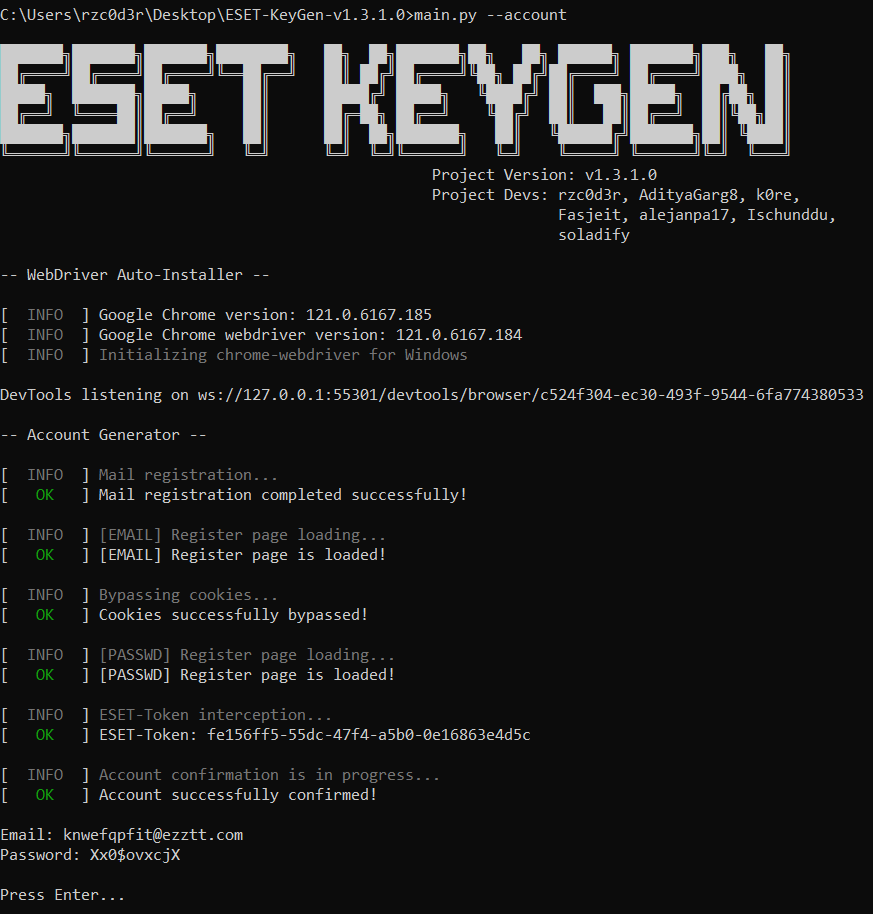
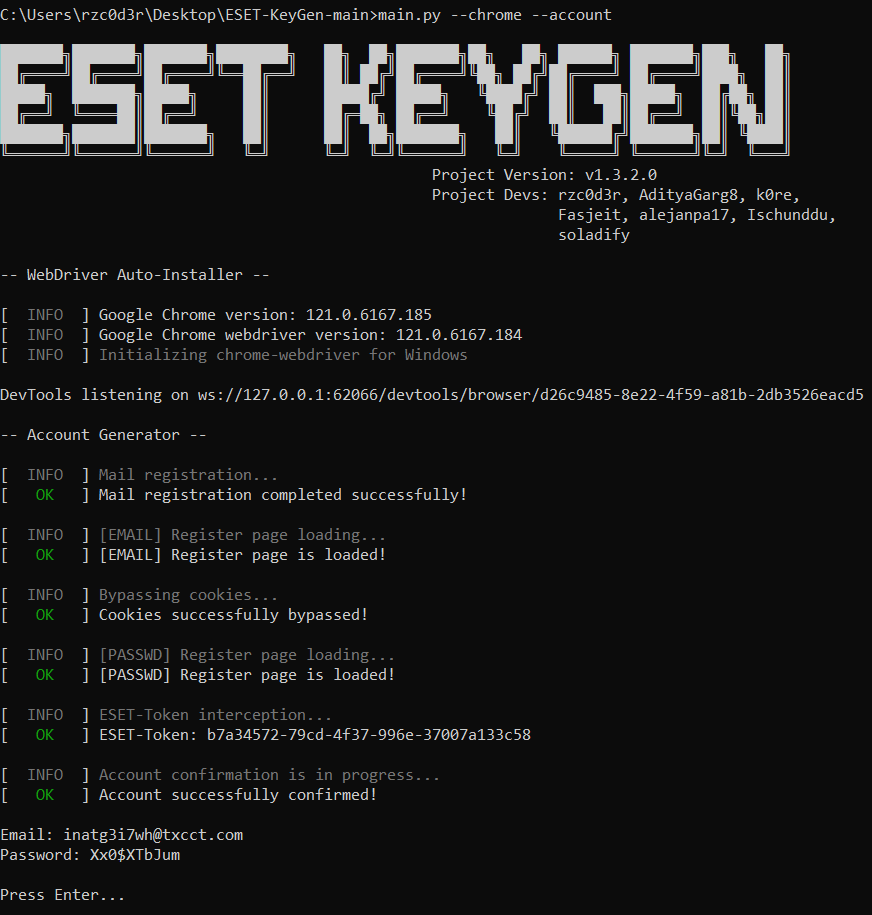
Update to v1.3.2.0
1. The project has now become a fully console offering
2. The system of command line arguments processing has been redesigned: added descriptions for each arguments, as well as required arguments without which it is impossible to start the project.
3. Updated screenshots and all instructions to the current version
4. Correction of minor inaccuracies in README.md
5. Added project preview in README.md

Thanks for the feedback, everyone!

diff --git a/main.py b/main.py
@@ -5,7 +5,7 @@ LOGO = """
 ██╔══╝  ╚════██║██╔══╝     ██║      ██╔═██╗ ██╔══╝    ╚██╔╝  ██║   ██║██╔══╝  ██║╚██╗██║   
 ███████╗███████║███████╗   ██║      ██║  ██╗███████╗   ██║   ╚██████╔╝███████╗██║ ╚████║   
 ╚══════╝╚══════╝╚══════╝   ╚═╝      ╚═╝  ╚═╝╚══════╝   ╚═╝    ╚═════╝ ╚══════╝╚═╝  ╚═══╝                                                                      
-                                                Project Version: v1.3.1.3
+                                                Project Version: v1.3.2.0
                                                 Project Devs: rzc0d3r, AdityaGarg8, k0re,
                                                               Fasjeit, alejanpa17, Ischunddu,
                                                               soladify
@@ -93,23 +93,32 @@ def webdriver_installer_menu(edge=False): # auto updating or installing google c
     return webdriver_path
 
 if __name__ == '__main__':
-    logger.console_log(LOGO)
+    print(LOGO)
     args_parser = argparse.ArgumentParser()
-    args_parser.add_argument('--account', action='store_true')
-    args_parser.add_argument('--force', action='store_true')
-    args_parser.add_argument('--cli', action='store_true')
-    args_parser.add_argument('--firefox', action='store_true')
-    args_parser.add_argument('--edge', action='store_true')
-    args_parser.add_argument('--no-headless', action='store_true')
-    args_parser.add_argument('--skip-webdriver-menu', action='store_true')
-    args_parser.add_argument('--only-update', action='store_true')
-    args_parser.add_argument('--custom-browser-location', type=str, default='')
+    # Required
+    ## Browsers
+    args_browsers = args_parser.add_mutually_exclusive_group(required=True)
+    args_browsers.add_argument('--chrome', action='store_true', help='Launching the project via Google Chrome browser')
+    args_browsers.add_argument('--firefox', action='store_true', help='Launching the project via Mozilla Firefox browser')
+    args_browsers.add_argument('--edge', action='store_true', help='Launching the project via Microsoft Edge browser')
+    ## Modes of operation
+    args_modes = args_parser.add_mutually_exclusive_group(required=True)
+    args_modes.add_argument('--key', action='store_true', help='Generating an antivirus license key')
+    args_modes.add_argument('--account', action='store_true', help='Generating an antivirus account')
+    # Optional
+    args_parser.add_argument('--skip-webdriver-menu', action='store_true', help='Skips installation/upgrade webdrivers through the my custom wrapper (The built-in selenium-manager will be used)')
+    args_parser.add_argument('--no-headless', action='store_true', help='Shows the browser at runtime (The browser is hidden by default, but on Windows 7 this option is enabled by itself)')
+    args_parser.add_argument('--force', action='store_true', help='Disables all user input, but waiting for the Enter key to be pressed before exiting the program remains')
+    args_parser.add_argument('--cli', action='store_true', help='Disables all user input (GitHub CI Requirements)')
+    args_parser.add_argument('--only-update', action='store_true', help='Updates/installs webdrivers and browsers without generating account and license key')
+    args_parser.add_argument('--custom-browser-location', type=str, default='', help='Set path to the custom browser (to the binary file, useful when using non-standard releases, for example, Firefox Developer Edition)')
     try:
-        # Init
+        # changing input arguments for special cases
         if platform.release() == '7' and webdriver_installer.get_platform()[0] == 'win': # fix for Windows 7
             sys.argv.append('--no-headless')
         if '--cli' in sys.argv:
             sys.argv.append('--force')
+        # initialization and configuration of everything necessary for work
         args = vars(args_parser.parse_args())
         driver = None
         webdriver_path = None
@@ -118,20 +127,18 @@ if __name__ == '__main__':
             browser_name = 'firefox'
         if args['edge']:
             browser_name = 'edge'
-        if not args['skip_webdriver_menu'] and browser_name != 'firefox':
+        if not args['skip_webdriver_menu'] and browser_name != 'firefox': # updating or installing microsoft edge webdriver
             webdriver_path = webdriver_installer_menu(args['edge'])
             if webdriver_path is not None:
                 os.chmod(webdriver_path, 0o777)
-        driver = shared_tools.initSeleniumWebDriver(browser_name, webdriver_path, browser_path=args['custom_browser_location'], headless=(not args['no_headless']))
+        driver = shared_tools.initSeleniumWebDriver(browser_name, webdriver_path, args['custom_browser_location'], (not args['no_headless']))
         if args['only_update']:
             if not args['cli']:
                 print('Press Enter...')
             sys.exit(0)
-        # Work
-        only_account = False
+        # main part of the program
         if args['account']:
             logger.console_log('\n-- Account Generator --\n')
-            only_account = True
         else:
             logger.console_log('\n-- KeyGen --\n')
         email_obj = sec_email_api.SecEmail()
@@ -145,7 +152,7 @@ if __name__ == '__main__':
         driver = EsetReg.returnDriver()
         output_line = f'\nEmail: {email_obj.get_full_login()}\nPassword: {eset_password}\n'
         output_filename = 'ESET ACCOUNTS.txt'
-        if not only_account:
+        if args['key']:
             EsetKeyG = eset_keygen.EsetKeygen(email_obj, driver)
             EsetKeyG.sendRequestForKey()
             license_name, license_out_date, license_key = EsetKeyG.getLicenseData()
@@ -162,5 +169,5 @@ if __name__ == '__main__':
         if str(type(E)).find('selenium') and traceback_string.find('Stacktrace:') != -1: # disabling stacktrace output
             traceback_string = traceback_string.split('Stacktrace:', 1)[0]
         logger.console_log(traceback_string, logger.ERROR)
-    if '--cli' not in sys.argv:
+    if not args['cli']:
         input('Press Enter...')

diff --git a/wiki/CommandLineArguments.md b/wiki/CommandLineArguments.md
@@ -1,14 +1,31 @@
 # All command line arguments
+------------------------------------------------------------------------------------------------------------------------------------
 
-| Argument Command      | Default  |                                          Description                                                    |
-| --------------------- | -------- | ------------------------------------------------------------------------------------------------------  |
-| --account             | disabled | Generates an account instead of a key                                                                   |
-| --firefox             | disabled | Launching the project via Firefox browser (Runs through the Google Chrome browser by default)           |
-| --edge                | disabled | Launching the project via Microsoft Edge browser (Runs through the Google Chrome browser by default)    |
-| --skip-webdriver-menu | disabled | Skips installation/upgrade webdrivers through the my custom wrapper (By default, everything should be done automatically through selenium-manager) |
-| --no-headless         | disabled, but for Windows 7 auto enabled | Shows the browser at runtime (by default hides the browser at runtime)                                  |
-| --force               | disabled | Disables all user input, but waiting for the Enter key to be pressed before exiting the program remains |
-| --cli                 | disabled | Disables all user input (GitHub CI Requirements)                                                        |
-| --only-update         | disabled | Updates / installs webdrivers and browsers without generating account and keys                          |
-| --only-update         | disabled | Updates / installs webdrivers and browsers without generating account and keys                          |
-| --custom-browser-location {string} | empty | Set path to the custom browser (to the binary file, useful when using non-standard releases, for example, Firefox Developer Edition)
+# Required
+### Browsers
+> Need to enter only one argument from this group!!!
+
+| Argument Command      |                                           Description                                                      |
+| --------------------- | ---------------------------------------------------------------------------------------------------------- |
+| --chrome              | Launching the project via Google Chrome browser                                                            |
+| --firefox             | Launching the project via Mozilla Firefox browser                                                          |
+| --edge                | Launching the project via Microsoft Edge browser                                                           |
+### Modes of operation
+> Need to enter only one argument from this group!!!
+
+| Argument Command      |                                           Description                                                      |
+| --------------------- | ---------------------------------------------------------------------------------------------------------- |
+| --key                 | Generating an antivirus license key                                                                        |
+| --account             | Generating an antivirus account                                                                            |
+
+--------------------------------------------------------------------------------------------------------------------------------------
+
+# Optional
+|          Argument Command          |                                                             Description                                                              |
+| ---------------------------------- | ------------------------------------------------------------------------------------------------------------------------------------ |
+| --skip-webdriver-menu              | Skips installation/upgrade webdrivers through the my custom wrapper (The built-in selenium-manager will be used)                     |
+| --no-headless                      | Shows the browser at runtime (The browser is hidden by default, but on Windows 7 this option is enabled by itself)                   |
+| --force                            | Disables all user input, but waiting for the Enter key to be pressed before exiting the program remains                              |
+| --cli                              | Disables all user input (GitHub CI Requirements)                                                                                     |
+| --only-update                      | Updates/installs webdrivers and browsers without generating account and license key                                                 |
+| --custom-browser-location {string} | Set path to the custom browser (to the binary file, useful when using non-standard releases, for example, Firefox Developer Edition) |

diff --git a/README.md b/README.md
@@ -1,5 +1,8 @@
 # ESET-KeyGen
-ESET-KeyGen - Trial-Key & Account generator for ESET Antivirus (last test was on 22.02.2024 at 18:16 UTC+2)
+ESET-KeyGen - Trial-Key & Account generator for ESET Antivirus (last test was on 23.02.2024 at 00:10 UTC+2)
+
+![](img/project_preview.png)
+
 
 ---
 # My github page is currently blocked by ESET Antivirus, so you will not be able to access the project.
@@ -19,13 +22,13 @@ It will ask the number of accounts and licenses to be generated. If you don't wa
 ## Using your Computer
 
 ### Installing Google Chrome / Firefox
-#### Google Chrome
+#### Google Chrome (fully supports)
 
 1. [How to install Chrome on Windows](https://support.google.com/chrome/answer/95346?hl=en&co=GENIE.Platform%3DDesktop#zippy=%2Cwindows)
 2. [How to install Chrome on Linux](https://support.google.com/chrome/answer/95346?hl=en&co=GENIE.Platform%3DDesktop#zippy=%2Clinux)
 3. [How to install Chrome on Mac](https://support.google.com/chrome/answer/95346?hl=en&co=GENIE.Platform%3DDesktop#zippy=%2Clinux%2Cmac)
 
-#### Firefox
+#### Firefox (supported, but without auto-update)
 1. [How to install Firefox on Windows](https://support.mozilla.org/en-US/kb/how-install-firefox-windows)
 2. [How to Install Firefox on Linux](https://support.mozilla.org/en-US/kb/install-firefox-linux)
 3. [How to Install Firefox on Mac](https://support.mozilla.org/en-US/kb/how-download-and-install-firefox-mac)

diff --git a/wiki/AccountGenerator.md b/wiki/AccountGenerator.md
@@ -1,10 +1,10 @@
 1. Run main.py with the --account parameter using the console:
 ```
-python main.py --account
+python main.py --chrome --account
 ```
 > Or run compiled .exe file
 ```
-ESET-KeyGen_v1.0.9.0-191023-2057_win32.exe --account
+ESET-KeyGen_v1.3.2.0_win64.exe --chrome --account
 ```
 > File name is unique for each version! Do not copy the above command. This is an example!
 
@@ -31,4 +31,4 @@ ESET-KeyGen_v1.0.9.0-191023-2057_win32.exe --account
 
 ![](https://github.com/rzc0d3r/ESET-KeyGen/blob/main/img/activation_with_account_7.png)
 
-> Just click "Continue" until you are told that you have successfully activated the antivirus.
+> Just click "Continue" until you are told that you have successfully activated the antivirus.

diff --git a/wiki/KeyGenerator.md b/wiki/KeyGenerator.md
@@ -2,9 +2,8 @@
 
 1. Run main.py using console:
 ```
-python main.py
+python main.py --chrome --key
 ```
-> Or click on it in File Explorer. Similarly with a compiled .exe file
 
 2. Wait until appears 'Press Enter...' and you will see the account data
 
